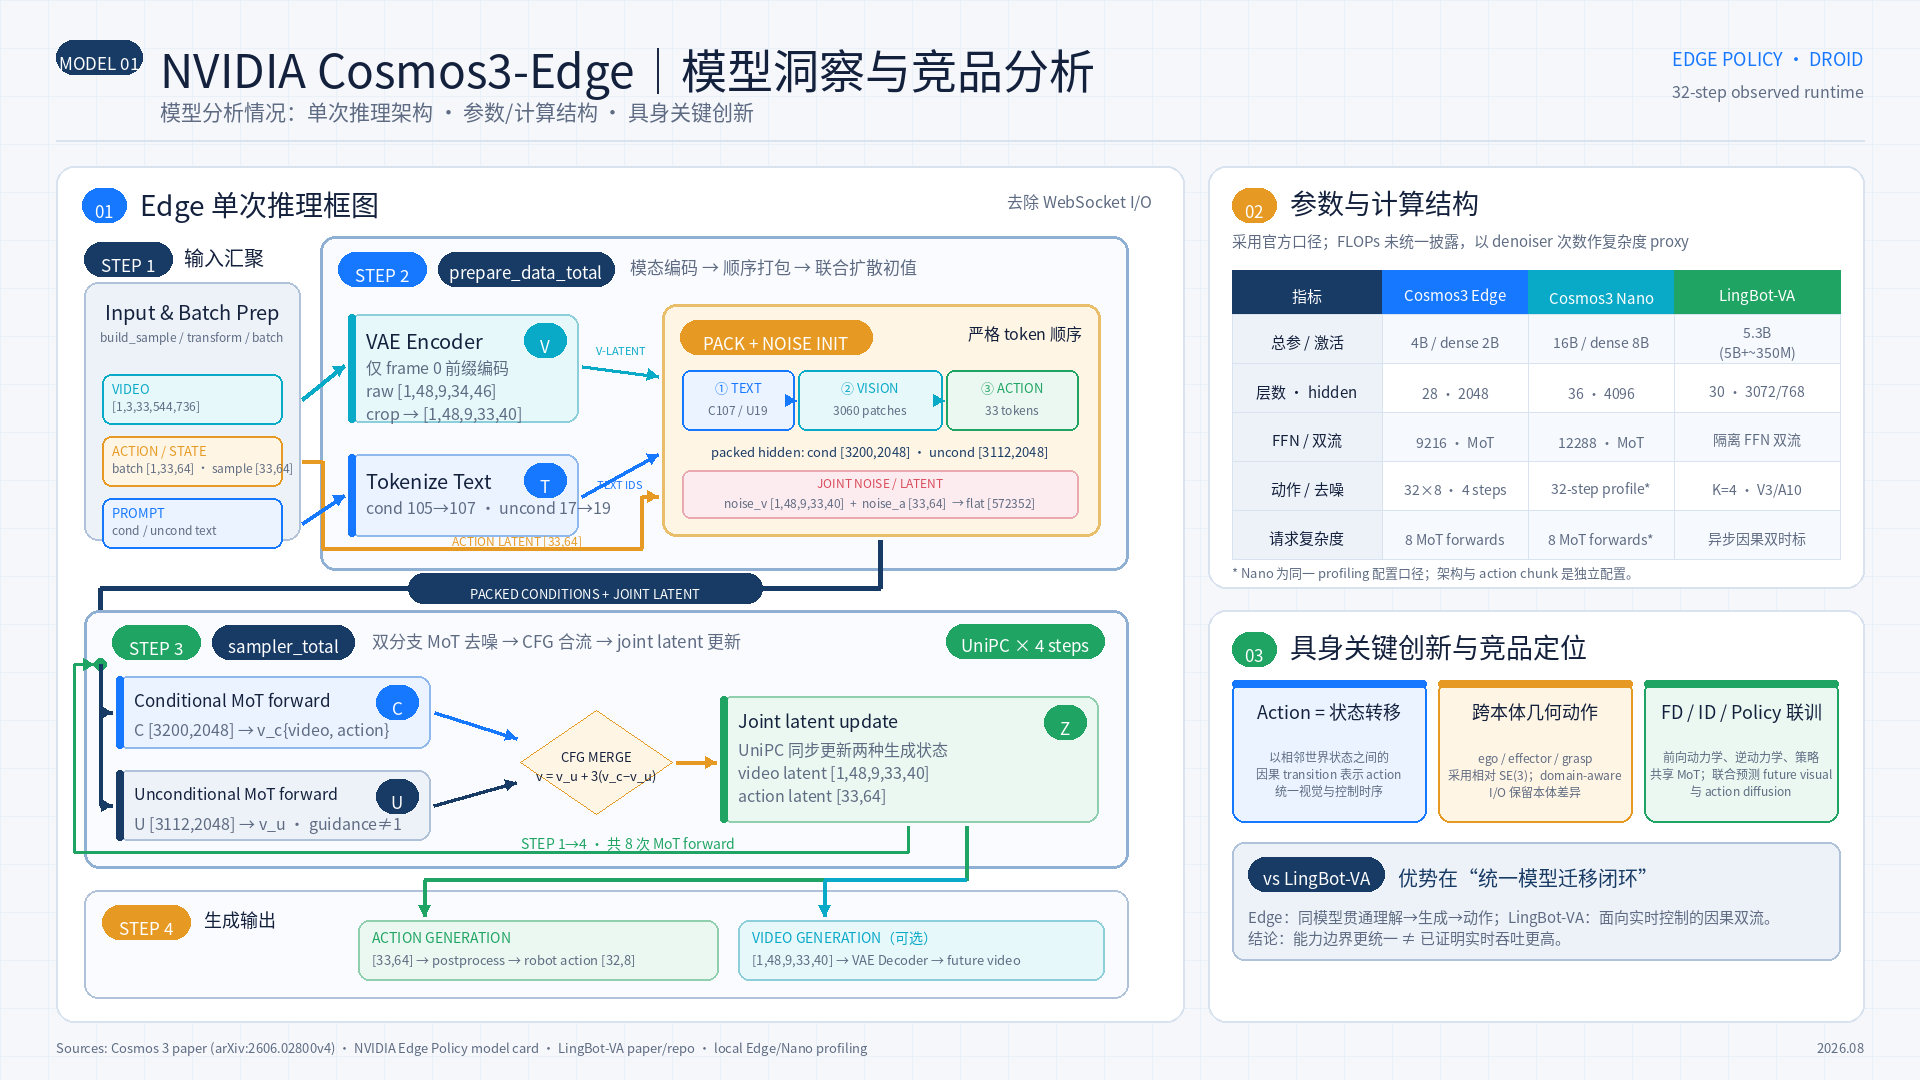
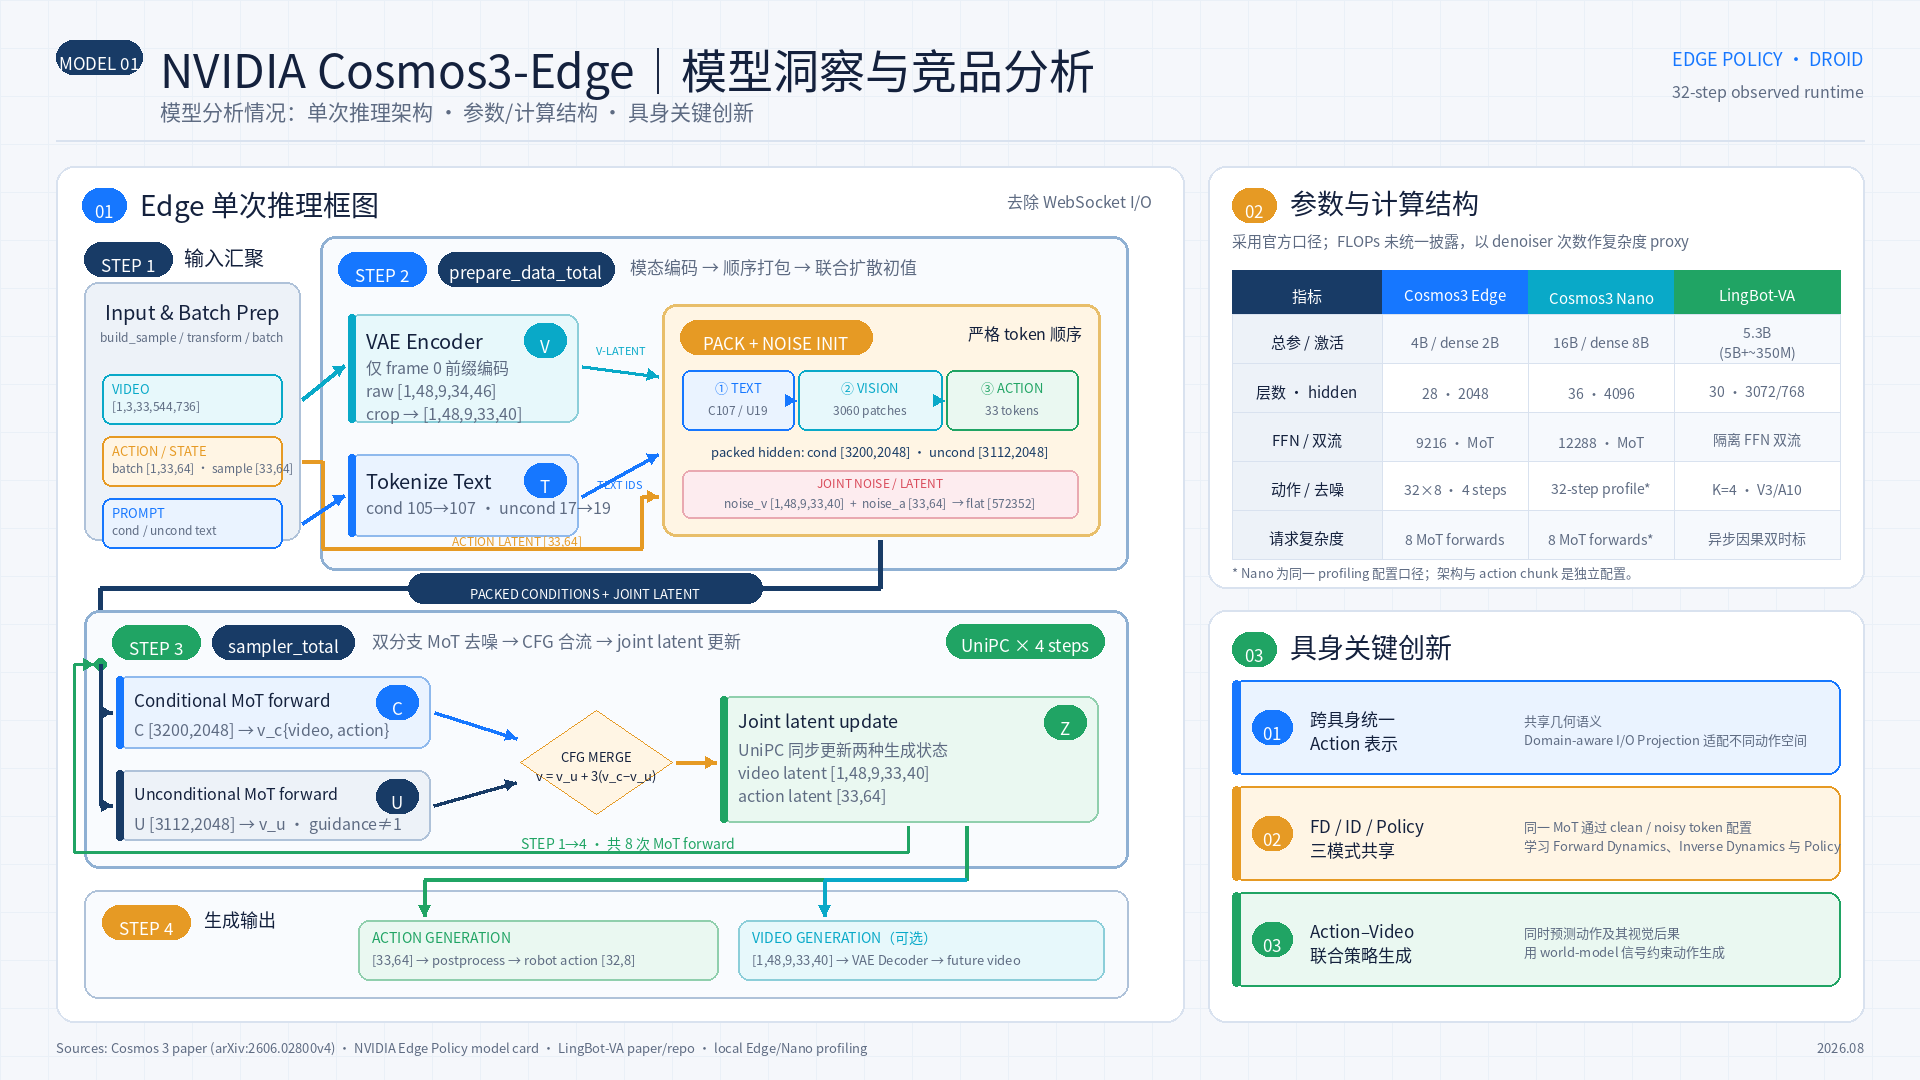
Refine embodied innovation slide

Changed region(s): [[0.625, 0.5806, 0.9688, 0.9167]]

diff --git a/docs/ppt/cosmos3_edge_model_insights/generate_pptx.py b/docs/ppt/cosmos3_edge_model_insights/generate_pptx.py
@@ -528,29 +528,24 @@ def build():
         yy += h
     c.text(tx, 562, 610, 18, "* Nano 为同一 profiling 配置口径；架构与 action chunk 是独立配置。", 13, COLORS["muted"])
 
-    # Right innovation panel
+    # Right embodied-innovation panel
     c.rect(rx, 610, rw, 412, COLORS["panel"], COLORS["hair"], 18, 2)
     c.badge(rx + 24, 632, 44, "03", COLORS["green"])
-    c.text(rx + 82, 626, 500, 38, "具身关键创新与竞品定位", 27, COLORS["ink"], True)
+    c.text(rx + 82, 626, 500, 38, "具身关键创新", 27, COLORS["ink"], True)
 
-    card_y = 680
-    cards = [
-        ("Action = 状态转移", "以相邻世界状态之间的\n因果 transition 表示 action\n统一视觉与控制时序", COLORS["blue"], COLORS["soft_blue"]),
-        ("跨本体几何动作", "ego / effector / grasp\n采用相对 SE(3)；domain-aware\nI/O 保留本体差异", COLORS["amber"], COLORS["soft_amber"]),
-        ("FD / ID / Policy 联训", "前向动力学、逆动力学、策略\n共享 MoT；联合预测 future visual\n与 action diffusion", COLORS["green"], COLORS["soft_green"]),
+    innovation_rows = [
+        ("01", "跨具身统一\nAction 表示", "共享几何语义\nDomain-aware I/O Projection 适配不同动作空间", COLORS["blue"], COLORS["soft_blue"]),
+        ("02", "FD / ID / Policy\n三模式共享", "同一 MoT 通过 clean / noisy token 配置\n学习 Forward Dynamics、Inverse Dynamics 与 Policy", COLORS["amber"], COLORS["soft_amber"]),
+        ("03", "Action–Video\n联合策略生成", "同时预测动作及其视觉后果\n用 world-model 信号约束动作生成", COLORS["green"], COLORS["soft_green"]),
     ]
-    x = rx + 24
-    for title, detail, accent, fill in cards:
-        c.rect(x, card_y, 194, 142, fill, accent, 12, 2)
-        c.rect(x, card_y, 194, 7, accent, accent, 3, 1)
-        c.text(x + 14, card_y + 18, 166, 28, title, 18, COLORS["ink"], True, "center")
-        c.text(x + 12, card_y + 52, 170, 80, detail, 12, COLORS["muted"], False, "center", "middle")
-        x += 206
-
-    c.rect(rx + 24, 842, 608, 118, COLORS["soft_navy"], "AFC2D9", 12, 2)
-    c.badge(rx + 40, 857, 136, "vs LingBot-VA", COLORS["navy"])
-    c.text(rx + 190, 850, 420, 46, "优势在“统一模型迁移闭环”", 20, COLORS["navy"], True, "left", "middle")
-    c.text(rx + 40, 900, 564, 48, "Edge：同模型贯通理解→生成→动作；LingBot-VA：面向实时控制的因果双流。\n结论：能力边界更统一 ≠ 已证明实时吞吐更高。", 15, COLORS["muted"], False, "left", "middle")
+    row_y = 680
+    for index, title, detail, accent, fill in innovation_rows:
+        c.rect(rx + 24, row_y, 608, 94, fill, accent, 12, 2)
+        c.rect(rx + 24, row_y, 8, 94, accent, accent, 4, 1)
+        c.badge(rx + 44, row_y + 30, 40, index, accent)
+        c.text(rx + 102, row_y + 13, 210, 68, title, 17, COLORS["ink"], True, "left", "middle")
+        c.text(rx + 316, row_y + 12, 294, 70, detail, 13, COLORS["muted"], False, "left", "middle")
+        row_y += 106
 
     # Footer
     c.text(56, 1037, 1808, 22, "Sources: Cosmos 3 paper (arXiv:2606.02800v4) · NVIDIA Edge Policy model card · LingBot-VA paper/repo · local Edge/Nano profiling", 13, COLORS["muted"], False, "left")
@@ -562,7 +557,8 @@ def build():
         "sampler_total 的条件与无条件分支读取同一 joint latent，CFG 合流后由 UniPC 更新这个共享状态，再回送给下一步的两条分支；"
         "默认 guidance=3、4 个 UniPC step，因此共 8 次 MoT 前向。最后拆成 action 和可选 video 两路输出。"
         "右侧参数采用 Cosmos 3 与 LingBot-VA 官方论文/模型卡口径。"
-        "具身创新聚焦 action-as-transition、跨本体 SE(3) 动作表示，以及 FD/ID/Policy 联合训练。"
+        "具身创新按三条主线讲解：跨具身统一 Action 表示与 Domain-aware I/O Projection；"
+        "FD/ID/Policy 通过 clean/noisy token 配置共享同一 MoT；Action–Video 联合预测用视觉后果约束动作生成。"
     )
     build_h100_slide(c)
     c.save()

diff --git a/docs/agent_logs/2026-08-17.md b/docs/agent_logs/2026-08-17.md
@@ -199,5 +199,72 @@ Status: `RESOLVED`
   generation. Dual-tower MoT is an enabling general architecture rather than
   the primary embodied innovation. Reported DROID/LIBERO adaptation results in
   the paper are for Cosmos3-Nano and must not be presented as Edge measurements.
+- Replaced the first slide's innovation area with exactly three leadership-level
+  claims: cross-embodiment unified Action representation with Domain-aware I/O
+  Projection; shared FD/ID/Policy learning through clean/noisy token
+  configuration on one MoT; and Action--Video joint policy generation using
+  predicted visual consequences as a world-model constraint. Removed the
+  `vs LingBot-VA` advantage block and its throughput caveat; LingBot-VA remains
+  only in the objective specification table.
 
 Affected files: `docs/ppt/cosmos3_edge_model_insights/` and this log.
+
+## Domain-aware action projector visibility
+
+Status: `OPEN`
+
+- Edge Policy does execute two domain-aware action projections on every VFM
+  network call. `action2llm` selects domain-specific weights using the packed
+  per-token `domain_id` and maps action tokens from `64 -> 2048` before MoT;
+  `llm2action` selects the corresponding domain-specific output weights and
+  maps noisy action hidden states from `2048 -> 64` after MoT.
+- These are `DomainAwareLinear` layers, not a separate transformer stage. The
+  current profiler includes `action2llm` inside `encode_action` and
+  `llm2action` inside `action_head`, so the Edge report's `4.813 ms` and
+  `0.786 ms` are inclusive eight-call totals rather than isolated projector
+  timings. Their theoretical request-level work is included in
+  `encode_action=0.000145 TFLOPs` and `action_head=0.000069 TFLOPs`.
+- The current architecture slide hides this inside generic action packing and
+  generation labels. A future revision should expose
+  `Domain Projector-In (action2llm)` before the MoT packed hidden sequence and
+  `Domain Projector-Out (llm2action)` before action velocity/postprocessing;
+  the performance table should label `encode_action` and `action_head` as
+  inclusive of those projectors.
+
+## Flat joint sampler-state clarification
+
+Status: `RESOLVED`
+
+- The slide's `flat [572352]` is not transformer token packing or another
+  learned projection. It is the per-sample UniPC state vector created by
+  reshaping the continuous vision noise (`48*9*33*40 = 570240`) and action
+  noise (`33*64 = 2112`) and concatenating them to `572352` scalars.
+- Clean `condition_reference` values and their `condition_mask` are flattened
+  in exactly the same vision-then-action order. This lets one sampler update a
+  synchronized joint video/action state while restoring conditioned positions
+  after each step.
+- Each denoise call splits the vector back into vision/action tensors, runs the
+  VFM branches, and concatenates the resulting vision/action velocities back
+  into the same flat layout for the next UniPC update. Text and domain IDs are
+  conditions/metadata and are not part of the sampled vector.
+- The slide label is technically correct but ambiguous; a clearer audience
+  label would be `Joint UniPC state [572352]` rather than merely `flat`.
+
+## PPT publication-state audit and direct publish
+
+Status: `RESOLVED`
+
+- Confirmed that local `main` and the live remote `origin/main` both point to
+  `584993f` (`Focus H100 slide on model inference`). There are no commits ahead
+  of the remote.
+- A later first-slide revision replaced the innovation/competitor panel with
+  three leadership-level embodied-innovation claims, and the combined PPTX plus
+  page-1 PNG were regenerated.
+- After the audit, the user requested direct publication. The scoped publish
+  contains only the PPT generator, combined PPTX, page-1 PNG, and this daily
+  log. `main` was fetched and confirmed at zero ahead/behind before staging.
+- Validation: source compilation and diff whitespace checks passed; the PPTX
+  passed Python standard-library ZIP/XML inspection as a two-slide editable
+  deck, and the PNG metadata is 1920x1080 RGB. Pillow/`python-pptx` and the
+  `unzip` CLI are unavailable in this workspace, so those optional duplicate
+  checks were not rerun. Unrelated mixed-worktree changes remain preserved.
